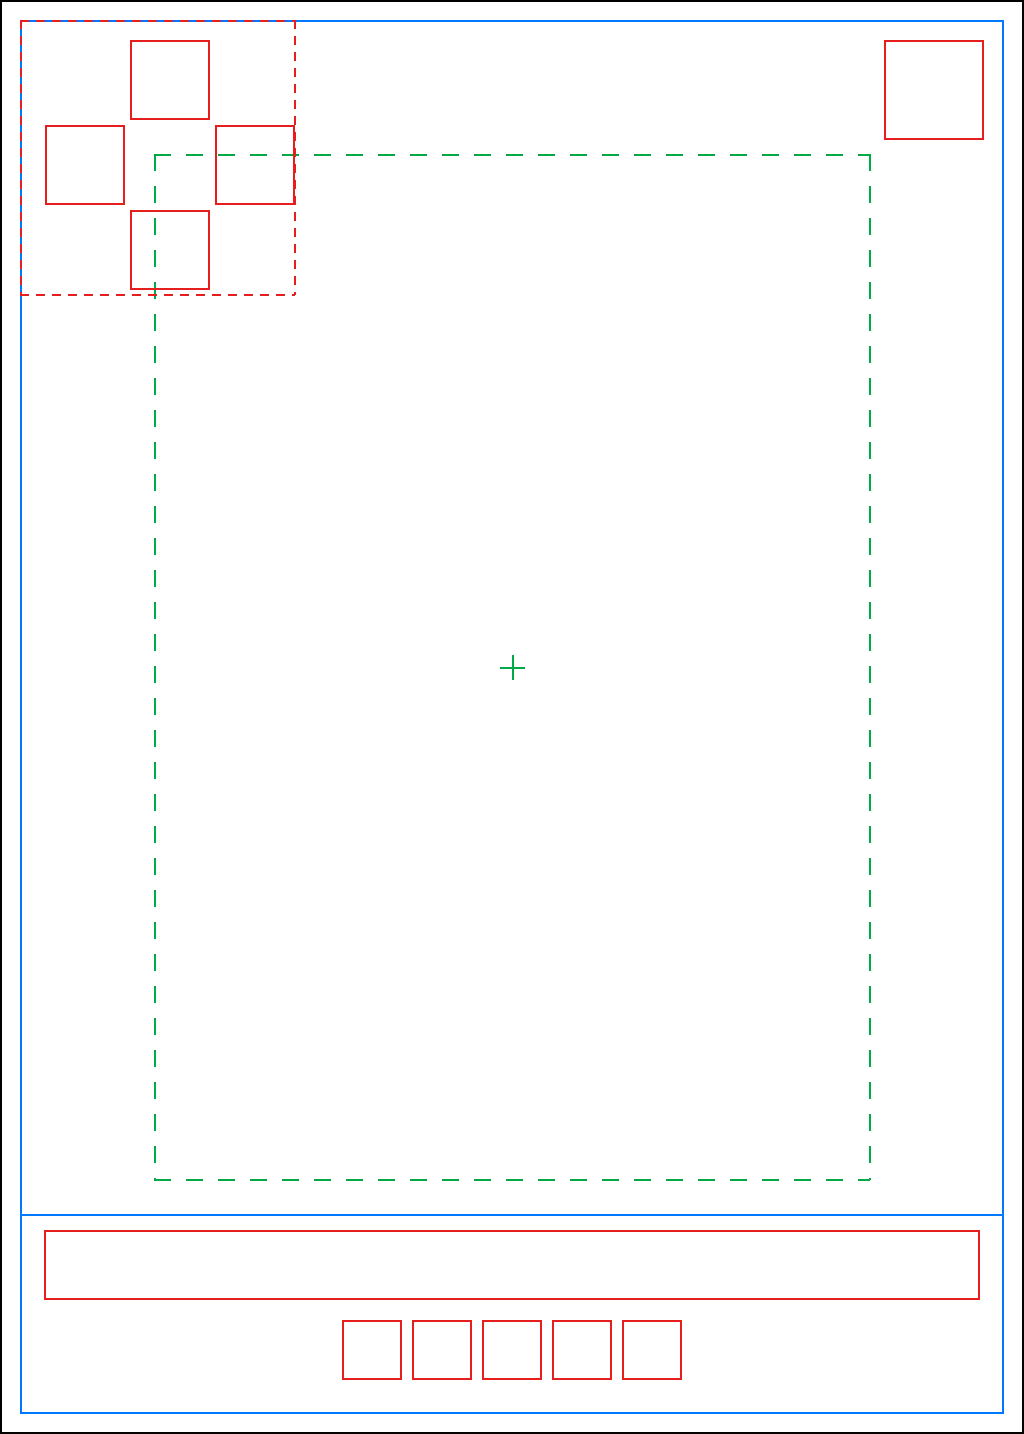
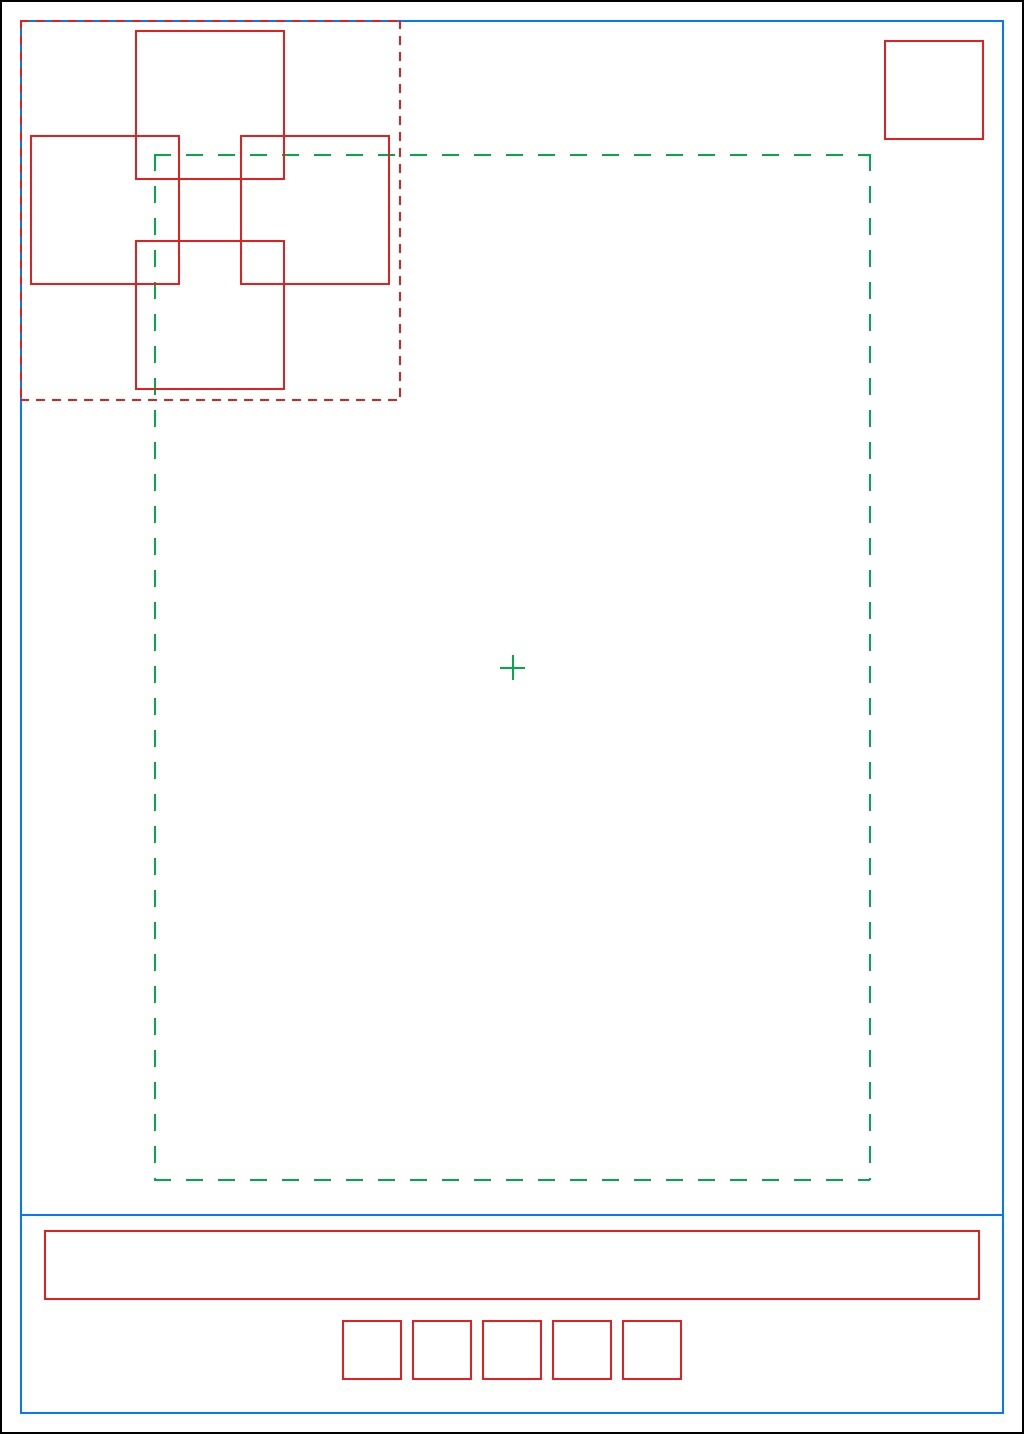
fix(card-layout): make card stats readable at normal card sizes
Stats were about 8 px tall on a card shown 160 px wide, and their thin
outline vanished at that scale. Digit cells grow from 80 to 150 px and sit in
an overlapping FF8-style diamond (cells overlap at the corners, glyphs do
not), and the default digits are drawn larger with an outline scaled to the
cell. The digit sheet is now 1500 x 150; templates and the spec are
regenerated from the layout. A test keeps each stat box the size of one
digit cell and inside the stats area.

diff --git a/packages/card-layout/src/index.test.ts b/packages/card-layout/src/index.test.ts
@@ -20,6 +20,15 @@ describe('CARD_LAYOUT', () => {
 });
 
 describe('parseCardLayout', () => {
+  it('sizes every stat box to one digit cell, inside the stats area', () => {
+    const [cellWidth, cellHeight] = CARD_LAYOUT.sheets.digits.cell;
+    const [ax0, ay0, ax1, ay1] = CARD_LAYOUT.statsArea;
+    for (const [x0, y0, x1, y1] of Object.values(CARD_LAYOUT.stats)) {
+      expect([x1 - x0, y1 - y0]).toEqual([cellWidth, cellHeight]);
+      expect(x0 >= ax0 && y0 >= ay0 && x1 <= ax1 && y1 <= ay1).toBe(true);
+    }
+  });
+
   it('rejects boxes that leave the card', () => {
     expect(() => parseCardLayout({ ...rawLayout, element: [900, 40, 1100, 140] })).toThrow(
       /element/,

diff --git a/design/tools/make_default_pack.py b/design/tools/make_default_pack.py
@@ -131,11 +131,13 @@ def digits():
     order = LAYOUT["sheets"]["digits"]["order"]
     img = Image.new("RGBA", (cw * len(order) * SS, ch * SS), (0, 0, 0, 0))
     d = ImageDraw.Draw(img)
-    f = font(SERIF_BOLD, int(ch * 0.82 * SS))
+    # Cards are often shown at 150-200 px wide, where a cell is only ~25 px: the glyph fills most of
+    # the cell and has a heavy dark outline so it stays readable over any art.
+    f = font(SERIF_BOLD, int(ch * 0.78 * SS))
     for i, char in enumerate(order):
         cx = (i + 0.5) * cw * SS
-        d.text((cx, ch * 0.52 * SS), char, font=f, fill=(255, 255, 255, 255), anchor="mm",
-               stroke_width=int(4.5 * SS), stroke_fill=(0, 0, 0, 255))
+        d.text((cx, ch * 0.5 * SS), char, font=f, fill=(255, 255, 255, 255), anchor="mm",
+               stroke_width=int(ch * 0.075 * SS), stroke_fill=(8, 10, 20, 255))
     return img, (cw * len(order), ch)
 
 

diff --git a/design/SPEC.md b/design/SPEC.md
@@ -121,7 +121,7 @@ All card visuals come from images and fonts, not from code. The game ships a **d
 | `bg-red.png`    | 1024 × 1434 | Card background when the card is on the red side                             |
 | `frame.png`     | 1024 × 1434 | Decorative frame; 20 px band, transparent inside. **Does not indicate team** |
 | `card-back.png` | 1024 × 1434 | Back of the card                                                             |
-| `digits.png`    | 800 × 80    | 10 cells of 80 × 80, in order: 1 2 3 4 5 6 7 8 9 A                           |
+| `digits.png`    | 1500 × 150  | 10 cells of 150 × 150, in order: 1 2 3 4 5 6 7 8 9 A                         |
 | `elements.png`  | 800 × 100   | 8 cells of 100 × 100: fire, ice, thunder, earth, poison, wind, water, holy   |
 | `stars.png`     | 120 × 60    | 2 cells of 60 × 60: filled, empty                                            |
 | Font file(s)    | .ttf / .otf | Used for the card name and other text                                        |
